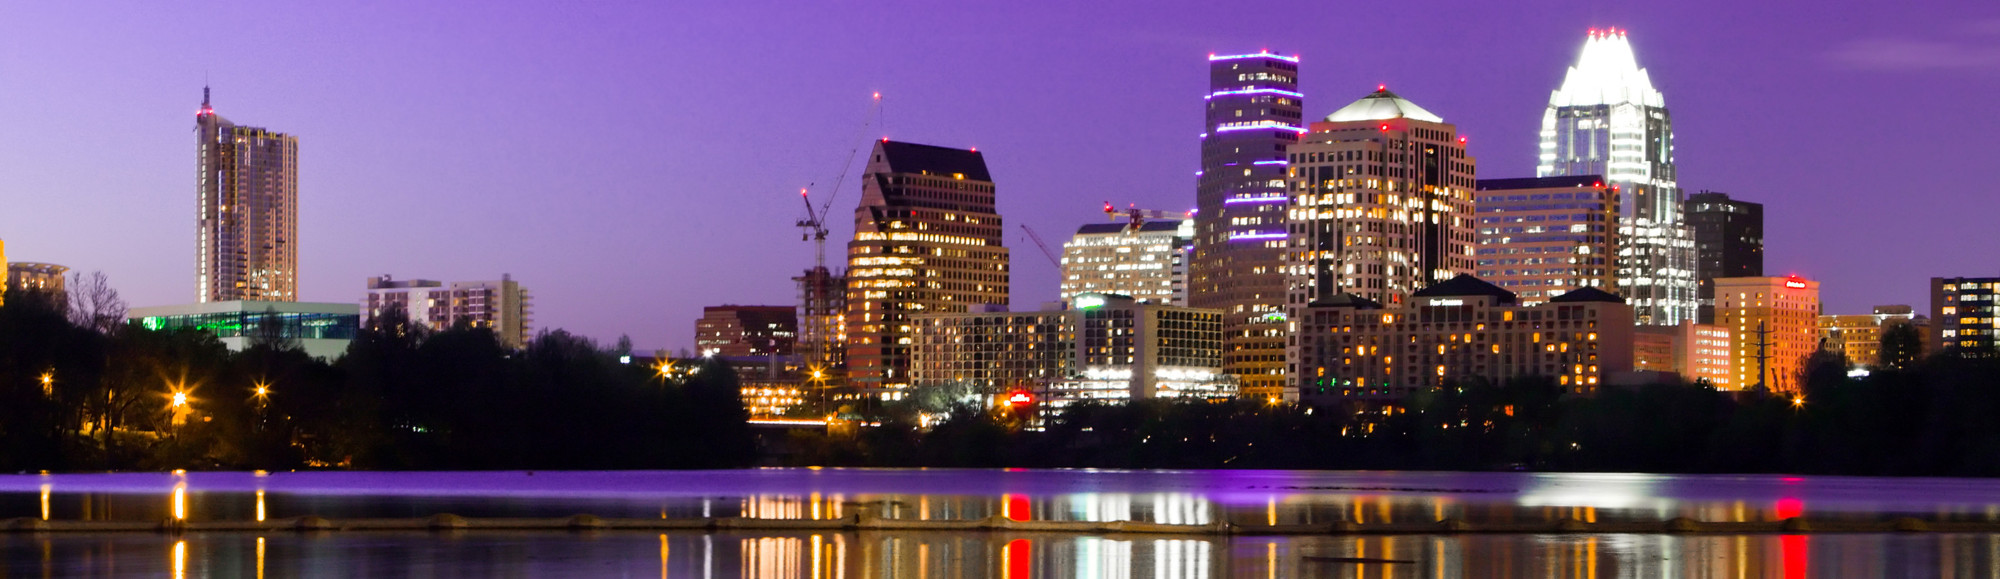
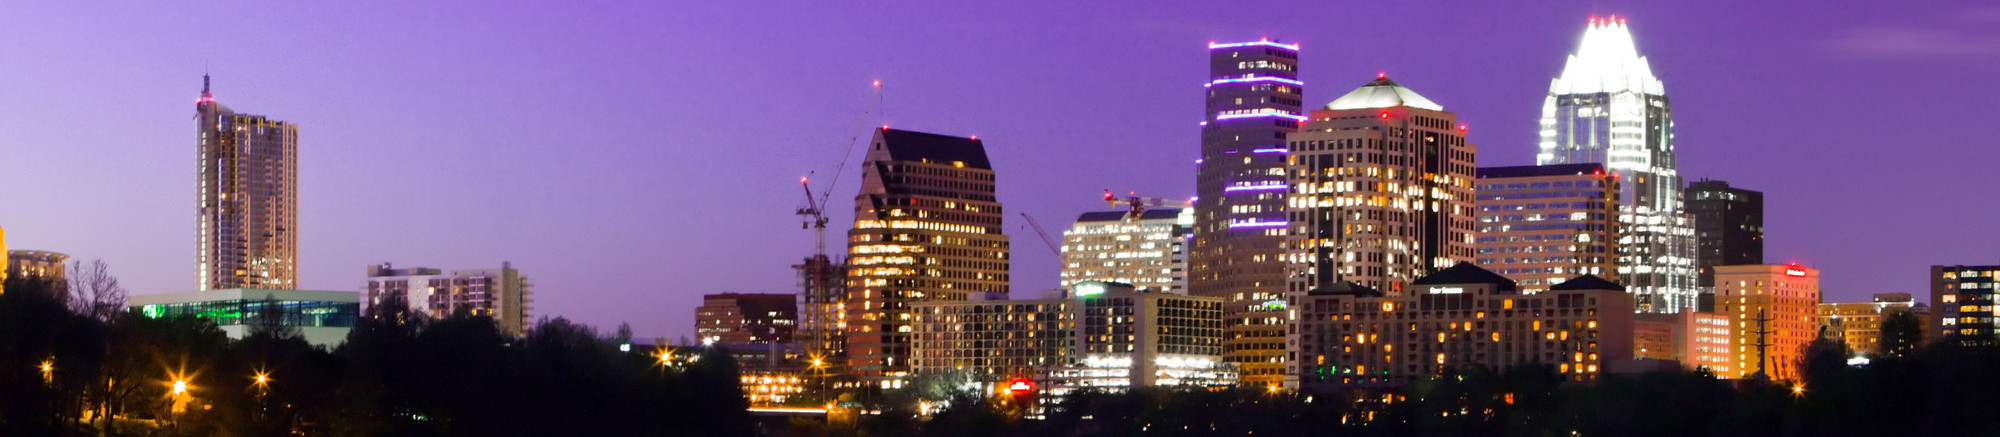
Fixed name for Ray Gilbert, dates for conferences on Registration page, and added a container to jumbotrons in page header.

diff --git a/public/css/style.css b/public/css/style.css
@@ -81,10 +81,12 @@ input.modal-toggle:checked ~ .modal-overlay { opacity: 1; transform: scale(1); z
 .jumbotron-header .header { position: relative; top: 50%; transform: translateY(-50%); }
 .jumbotron-header h1 { font-size: 84pt; text-align: center; line-height: 1; color: #ffff55 !important; }
 .jumbotron-header h2 { color: #1b84c2 !important; }
+
+/*
 .jumbotron-networking { background-image: url('/images/networking.jpg'); }
 .jumbotron-advisors { background-image: url('/images/advisors.jpg'); }
 .jumbotron-conferences { background-image: url('/images/conferences/conferences.jpg'); }
-
+*/
 
 /***************************************************
 **  PARALAX
@@ -116,7 +118,7 @@ footer { clear: both; background-color: black; }
 **  RESPONSIVE STYLES
 ***************************************************/
 	header { padding-top: 4.5em; }
-	.jumbotron { height: 300px; background-size: 225% 65% !important; background-position: 50% 0; }
+	.jumbotron { height: 300px; background-size: cover !important; background-position: 50% 0; }
 	.jumbotron h1 { font-size: 22pt; }
 
 	.nav-main .modal-menu { display: none; }
@@ -154,7 +156,7 @@ footer { clear: both; background-color: black; }
 @media only screen and (min-width: 768px) {
 	#logo { display: block; }
 	header { padding-top: 7.6em; }
-	.jumbotron { height: 500px; background-size: 125% !important; background-position: 50%; }
+	.jumbotron { height: 500px; background-size: cover !important; }
 	.jumbotron h1 { font-size: 60pt; }
 	.paralax { background-size: 160%; background-position: 50% 10% !important; }
 	.nav-main .modal-menu { display: block; }

diff --git a/resources/views/app.blade.php b/resources/views/app.blade.php
@@ -52,11 +52,13 @@
 
 @if (!empty($options->show_hero_image) && (bool)$options->show_hero_image === true)
 	<!-- Hero Image, Top of Page -->
-	<section id="home" class="paralax jumbotron jumbotron-header" style="background-image: url('{{ $options->jumbotron }}');">
+	<section id="home" class="jumbotron jumbotron-header" style="background-image: url('{{ $options->jumbotron }}');">
 		<div>
 			<div class="vertical">
-				<h1 class="acclaim-text acclaim-text-shadow">{{ $options->title }}</h1>
-				@yield('subtitle')
+				<div class="container">
+					<h1 class="acclaim-text acclaim-text-shadow">{{ $options->title }}</h1>
+					@yield('subtitle')
+				</div>
 			</div>
 		</div>
 	</section>

diff --git a/app/Http/Controllers/RegistrationController.php b/app/Http/Controllers/RegistrationController.php
@@ -140,7 +140,7 @@ class RegistrationController extends Controller
 	protected function getEvents()
 	{
 		$events = ['' => 'Select one...'];
-		$conferences	= Conference::where('start_date', '>', Carbon::now())->get();
+		$conferences	= Conference::where('start_date', '>', Carbon::now())->published()->get();
 		$conferences 	= Helpers::keysByField($conferences, 'slug');
 
 		foreach ($conferences as $slug => $event)

diff --git a/database/migrations/2015_07_15_211617_create_speakers_table.php b/database/migrations/2015_07_15_211617_create_speakers_table.php
@@ -50,8 +50,8 @@ class CreateSpeakersTable extends Migration {
 			]);
 
 		Speaker::create([
-				'first_name'	=> 'Gilbert',
-				'last_name'		=> 'Ray',
+				'first_name'	=> 'Ray',
+				'last_name'		=> 'Gilbert',
 				'slug'			=> 'gilbert-ray',
 				'title'			=> 'President',
 				'title_short'	=> 'President',
